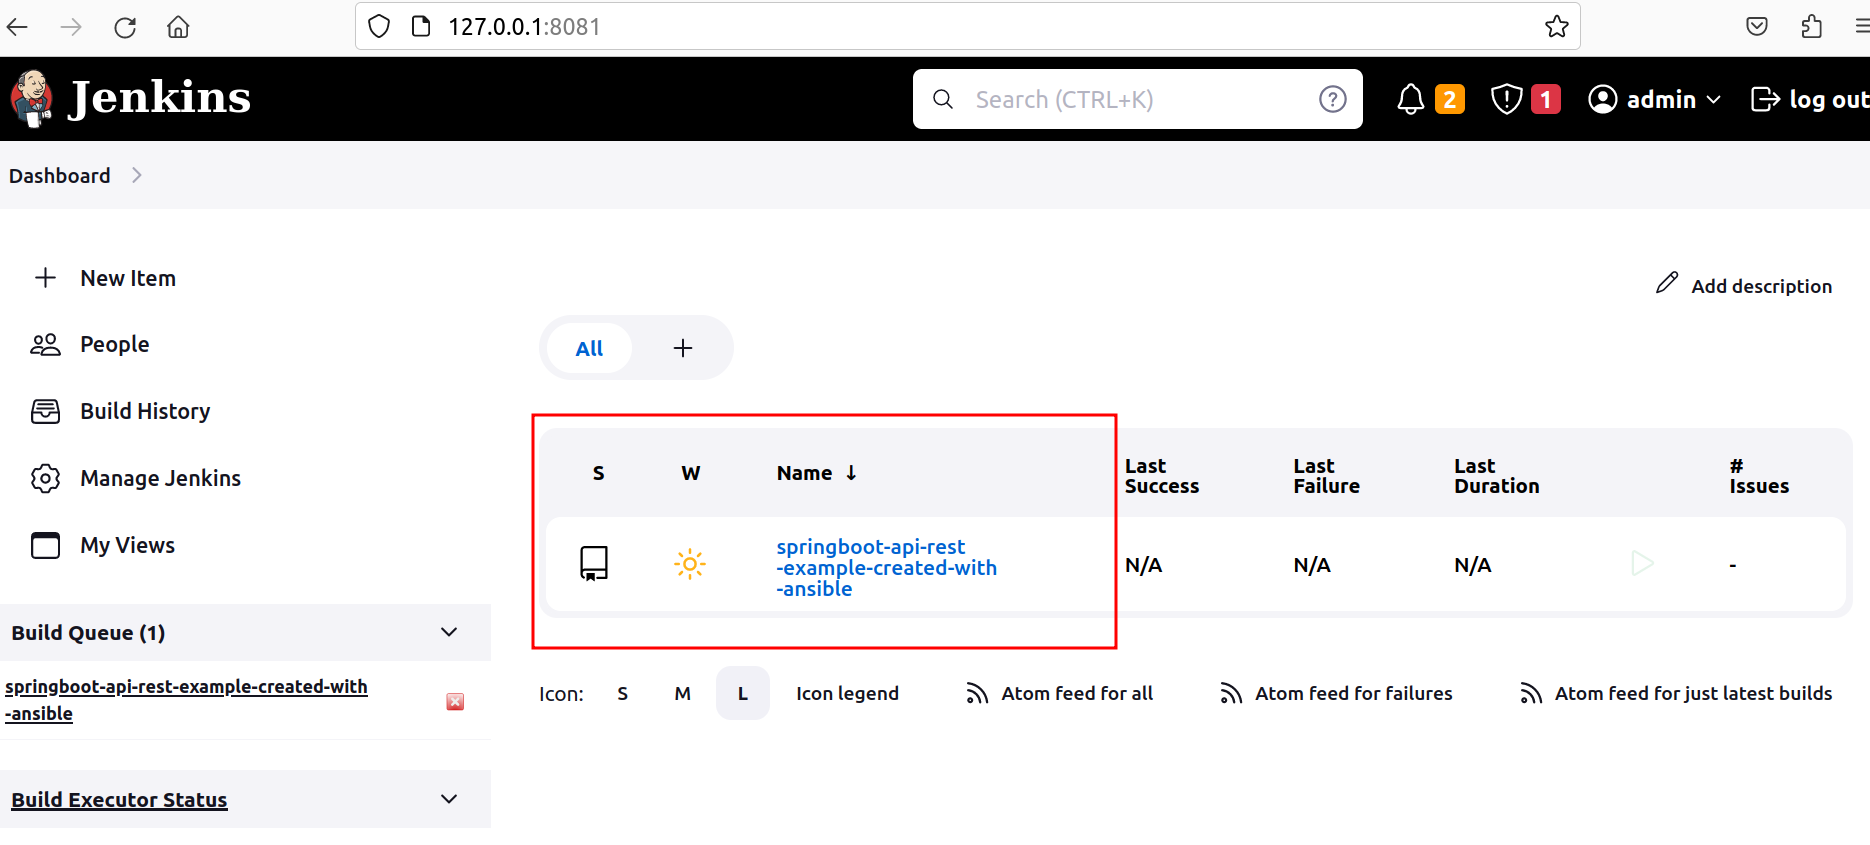
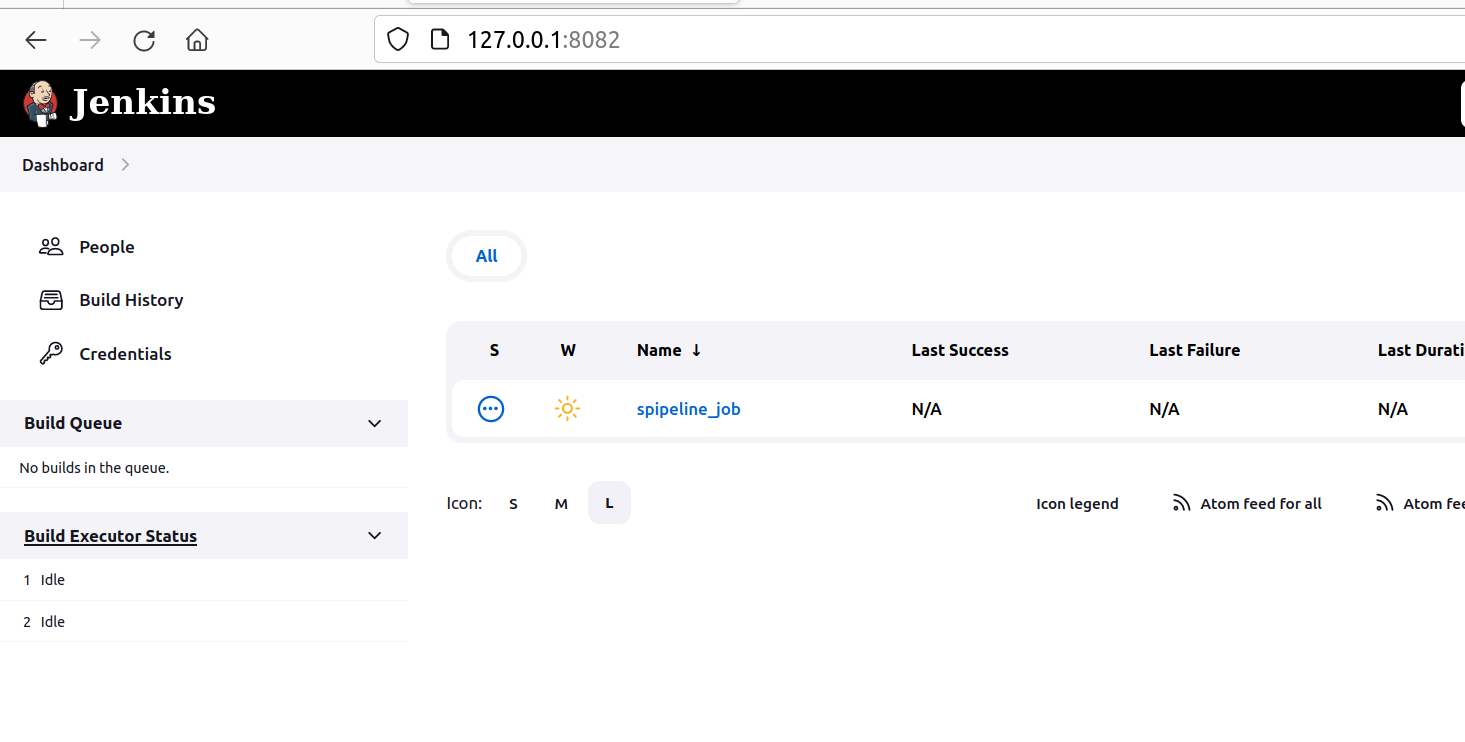
ALM-2030: minor updates

diff --git a/README.md b/README.md
@@ -4,22 +4,18 @@
 1. Jenkins host:
     `jenkins_hostname: 127.0.0.1`
 2. Jenkins port: 
-    `jenkins_port: 8081`
+    `jenkins_port: 8082`
 3.  Admin account credentials which will be created the first time Jenkins is installed: - check users in role
     `jenkins_admin_user: admin
      jenkins_admin_password: admin`
 4. Java version:
     `java_packages:`
       `- openjdk-17-jdk`
-5. Global tools maven version:
-    `jenkins_maven_version: 3.9.0`
+5. Install global tools. Maven versions:
+*     jenkins_maven_installations:
+      - 3.8.4
+      - 3.9.0
 6. [List of plugins that will be installed](ListofJenkinsPluginsToBeInstalled.md)
-
-## Project:
-*  As the example we used the following [project](https://github.com/Alliedium/springboot-api-rest-example)
-## Job configuration:
-*  Jenkinsfile location for the job is set in the config/multibranch_pipeline_config.xml 
- `<scriptPath>jenkins/Jenkinsfile</scriptPath>`
 
 # Instructions to install Jenkins with ansible playbook:
 1. Install ansible roles for [Jenkins](https://github.com/geerlingguy/ansible-role-jenkins) and [Java](https://github.com/geerlingguy/ansible-role-java/) using commands:
@@ -27,7 +23,12 @@
     `ansible-galaxy install --roles-path=./playbooks geerlingguy.java`
 2. Run ansible playbook to install and config Jenkins server and create job:
     `ansible-playbook ~/ansible-jenkins/playbooks/create-job.yml -i ./inventory`
-3. Go to the browser and check that Jenkins is available at http://localhost:8081/.
+3. Go to the browser and check that Jenkins is available at http://localhost:8082/.
 4. Login to Jenkins using the credentials.
-5. You will see Jenkins dashboard ![jenkins_dashboard.png](./images/01jenkins_dashboard.png). Open job.
-6. The main branch will be run [!single_pipeline.png](./images/02single_pipeline.png)
+5. You will see Jenkins dashboard. Open job. ![jenkins_dashboard.png](./images/01jenkins_dashboard.png) 
+6. The main branch will be run ![single_pipeline.png](./images/02jenkins_staged_build_view.png)
+
+### Project:
+   As the example we used the following [project](https://github.com/Alliedium/springboot-api-rest-example)
+### Job configuration:
+   Job configuration is set in the templates/job-config.xml.j2.
